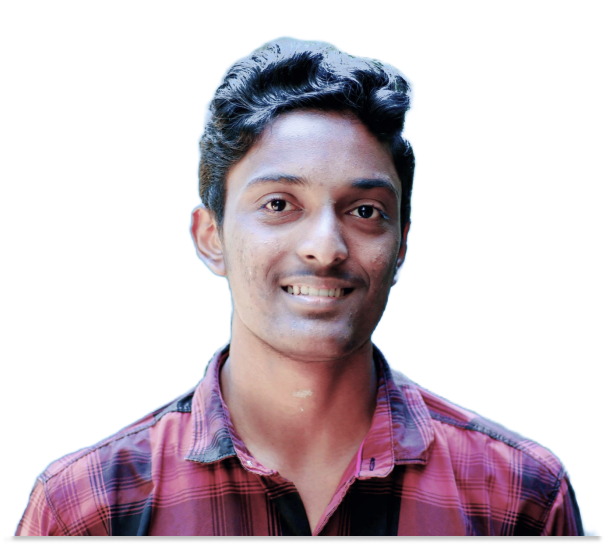
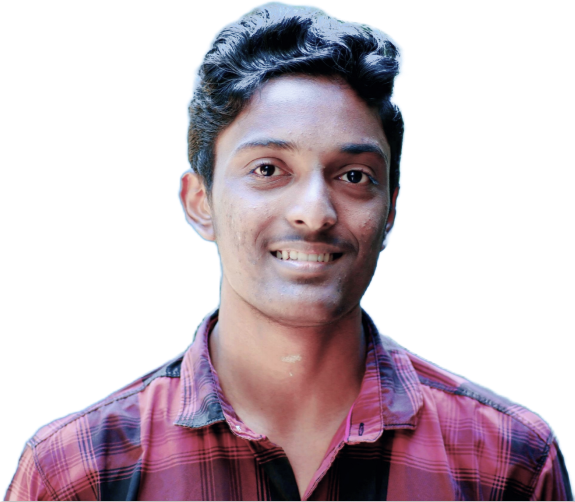
phase2

diff --git a/src/components/About/About.js b/src/components/About/About.js
@@ -1,0 +1,28 @@
+import { Component } from "react";
+import "./About.css"
+
+class About extends Component {
+    state = { }
+    render() { 
+        return (
+            <div className="about">
+                <div>
+                    <p>
+                        <span>Hi there!,</span> I'm Aswanth, a BCA student with a passion for technology and a keen interest in exploring new areas of the industry. My experience in full-stack development, Android, and native app development has equipped me with a comprehensive set of skills that allows me to deliver quality work. With a strong foundation in programming languages like Java, Python, and C++, I am able to build robust and efficient applications that meet the client's requirements.
+In addition to my technical skills, I have expertise in using popular frameworks like React, React Native, Django, Flask, Node.js, Express.js, and Flutter, among others. This enables me to develop custom, scalable solutions that meet the unique needs of each project. I am committed to staying up-to-date with the latest trends and innovations in the industry and I am always eager to learn new technologies and approaches.<br/>
+&nbsp; &nbsp; &nbsp; &nbsp; &nbsp;As a tech enthusiast, I am excited about the potential of AI, machine learning, and robotics to change the world we live in. I believe that technology can help us solve complex problems and make our lives easier and more convenient. I am constantly exploring new ideas and pushing the boundaries of what's possible, and I am excited to see where the future of technology takes us.
+Whether you need a developer for a web app, mobile app, or something more experimental, I am ready to take on the challenge. I believe in a collaborative approach to problem-solving, and I am always willing to go the extra mile to deliver high-quality results. Let's connect and see how we can make your project a success!
+
+
+
+
+
+
+                    </p>
+                </div>
+            </div>
+        )
+    }
+}
+ 
+export default About;

diff --git a/src/components/Header/Header.css b/src/components/Header/Header.css
@@ -1,26 +1,30 @@
 .header {
     position: relative;
-    width: 100%;
+    width: calc(100% - 300px);
     height: calc(100% - 100px);
-    margin-top: 100px;
+    margin: 100px 150px 0 150px;
     display: flex;
     align-items: center;
     justify-content: center;
 }
-.header > div {
+
+.header .me {
     width: 50%;
     height: 100%;
-    display: flex;
-    align-items: center;
-}
-.header .me {
     display: flex;
     align-items: center;
     justify-content: center;
 }
 .header .me img {
-    width: 40.01vw;
-    height: 38.589vw;
+    width: 35vw;
+}
+.header .description {
+    width: 50%;
+    height: 100%;
+    display: flex;
+    flex-direction: column;
+    align-items: center;
+    justify-content: center;
 }
 .header .description .title {
     font-family: 'Bungee Shade';
@@ -35,6 +39,13 @@
     line-height: 30px;
     margin-top: 2.5vh;
 }
+.header .description p {
+    font-size: 17px;
+    line-height: 22px;
+    color: #fdfdfd90;
+    margin-top: 20px;
+    margin-bottom: 20px;
+}
 .header .description .buttons {
     width: calc(100% - 4vw);
     margin: 6.2vh 4vw 0 0vw;
@@ -48,9 +59,14 @@
     width: auto;
     padding: 0 30px 0 30px;
     height: 50px;
-    color: #AC0E0E;
+    color: #cd3a3a;
     text-decoration: none;
     background: white;
     border-radius: 30px;
     margin-right: 2vw;
+    transition: all 0.5s ease;
+}
+.header .description .buttons a:hover {
+    background: #cd3a3a;
+    color: #fff;
 }

diff --git a/src/App.js b/src/App.js
@@ -1,8 +1,10 @@
 import './App.css';
+import About from './components/About/About';
 import Header from './components/Header/Header';
 import Main from './components/Main/Main';
 import Page from './components/Page/Page';
 import SideMenu from './components/SideMenu/SideMenu';
+import Skills from './components/Skills/Skills';
 import TopBar from './components/TopBar/TopBar';
 
 function App() {
@@ -10,17 +12,20 @@ function App() {
     <div className="App">
       <Main>
         <SideMenu></SideMenu>
-        <Page num={1} id="home">
+        <Page num={1} id="home" fixedHeight>
           <TopBar></TopBar>
           <Header></Header>
         </Page>
-        <Page num={2} id="about" blurred>
-          Page 2
+        <Page num={2} id="about" blurred fixedHeight>
+          <About/>
         </Page>
-        <Page num={3} id="projects" blurred>
+        <Page num={3} id="skills" blurred fixedHeight>
+          <Skills />
+        </Page>
+        <Page num={4} id="projects" blurred fixedHeight>
           Page 3
         </Page>
-        <Page num={4} id="contact" blurred>
+        <Page num={5} id="contact" blurred fixedHeight>
           Page 4
         </Page>
       </Main>

diff --git a/src/components/Header/Header.js b/src/components/Header/Header.js
@@ -1,6 +1,6 @@
 import { Component } from "react";
 import "./Header.css"
-import me from "../../images/me.png";
+import me from "../../images/me-bw 1.png";
 class Header extends Component {
     state = { }
     render() { 
@@ -12,6 +12,9 @@ class Header extends Component {
                 <div>
                     <h2 className="title">Aswanth V C</h2>
                     <span>Web & Android Developer</span>
+                    <p>
+                    I am a skilled BCA student with a strong passion for web and android development. My love for all aspects of IT and technology has led me to explore and learn about various fields. I am dedicated to delivering high-quality results with meticulous attention to detail. With a creative mindset and a strong work ethic, I am committed to bringing innovative ideas to life. Whether it's designing a website or developing an app, I strive to create solutions that are user-friendly and impactful.
+                    </p>
                     <div className="buttons">
                         <a href="#contact">Contact</a>
                         <a href="#projects" style={{color:"#111"}}>Projects</a>

diff --git a/src/components/Page/Page.js b/src/components/Page/Page.js
@@ -4,10 +4,12 @@ import bg from "../../images/star-trails-1846734_1920.jpg"
 class Page extends Component {
     state = {}
     render() { 
-        return <div className={"page page-"+this.props.num} id={this.props.id}>
-            <img className={"background"+(this.props.blurred ? " blurred" : "")} src={bg}></img>
+        return (
+        <div className={"page page-"+this.props.num+(this.props.blurred ? " blurred" : " normal")+(this.props.fixedHeight?" fixed":"")} id={this.props.id}>
+            <div className="bg"></div>
+            <img className={"background"+(this.props.blurred ? " blurred" : " normal")} src={bg}></img>
             {this.props.children}
-        </div>;
+        </div>);
     }
 }
  

diff --git a/src/components/TopBar/TopBar.css b/src/components/TopBar/TopBar.css
@@ -8,18 +8,23 @@
     align-items: center;
     justify-content: center;}
 .topbar .container {
-    width: calc(100% - 200px);
+    width: calc(100% - 400px);
     height: auto;
-    margin: 0 100px 0 100px;
+    margin: 0 200px 0 200px;
     display: flex;
     align-items: center;
     justify-content: space-between;
 }
+
 .topbar .container .left .menu_texts a {
-    margin-right: 20px;
+    margin-right: 40px;
     color: #fff;
     text-decoration: none;
-    font-size: normal;
+    font-size: 20px;
+    transition: all 0.5s ease;
+}
+.topbar .container .left .menu_texts a:hover {
+    color: #cd3a3a;
 }
 .topbar .container .icons i.bx {
     margin-left: 20px;

diff --git a/src/components/Page/Page.css b/src/components/Page/Page.css
@@ -5,6 +5,20 @@
     overflow: hidden;
     padding: 20px;
     background: var(--bg);
+    z-index: 0;
+}
+.page.fixed {
+    height: calc(100vh - 40px);
+}
+.page.normal .bg {
+    position: absolute;
+    top: 0;
+    left: 0;
+    width: 100%;
+    height: 100%;
+    display: block;
+    background: rgba(46, 46, 46, 0.6);
+    z-index: 0;
 }
 .page img.background {
     width: 100%;
@@ -13,7 +27,7 @@
     position: absolute;
     top: 0;
     left: 0;
-    z-index: 0;
+    z-index: -1;
 }
 .page img.background.blurred {
     opacity: 0.1;

diff --git a/src/components/Skills/Skills.js b/src/components/Skills/Skills.js
@@ -1,0 +1,19 @@
+import { Component } from 'react';
+import './Skills.css'
+import SkillBubble from '../SkillBubble/SkillBubble';
+
+class Skills extends Component {
+    state = { }
+    render() { 
+        return (
+            <div className='skills'>
+                <h2 className='title underline'>What is my skills?</h2>
+                <div className='skill-box'>
+                    <SkillBubble title="React" icon="bx bxl-react"/>
+                </div>
+            </div>
+        );
+    }
+}
+ 
+export default Skills;

diff --git a/src/components/About/About.css b/src/components/About/About.css
@@ -1,0 +1,22 @@
+.about {
+    width: calc(100% - 400px);
+    height: 100%;
+    margin: 0 200px 0 200px;
+    display: flex;
+    align-items: center;
+    justify-content: center;
+}
+.about div {
+    width: 100%;
+    height: auto;
+}
+.about p {
+    font-size: 25px;
+    line-height: 37px;
+    color: #fdfdfd99;
+}
+.about p span {
+    font-size: 60px;
+    color: #fdfdfd;
+    font-family: 'Saira Stencil One',monospace;
+}

diff --git a/src/components/SkillBubble/SkillBubble.js b/src/components/SkillBubble/SkillBubble.js
@@ -1,0 +1,16 @@
+import { Component } from 'react';
+import './SkillBubble.css'
+
+class SkillBubble extends Component {
+    state = { }
+    render() { 
+        return (
+            <div className='skill-bubble'>
+                <i className={this.props.icon}></i>
+                <h2 className='title'>{this.props.title}</h2>
+            </div>
+        );
+    }
+}
+ 
+export default SkillBubble;
